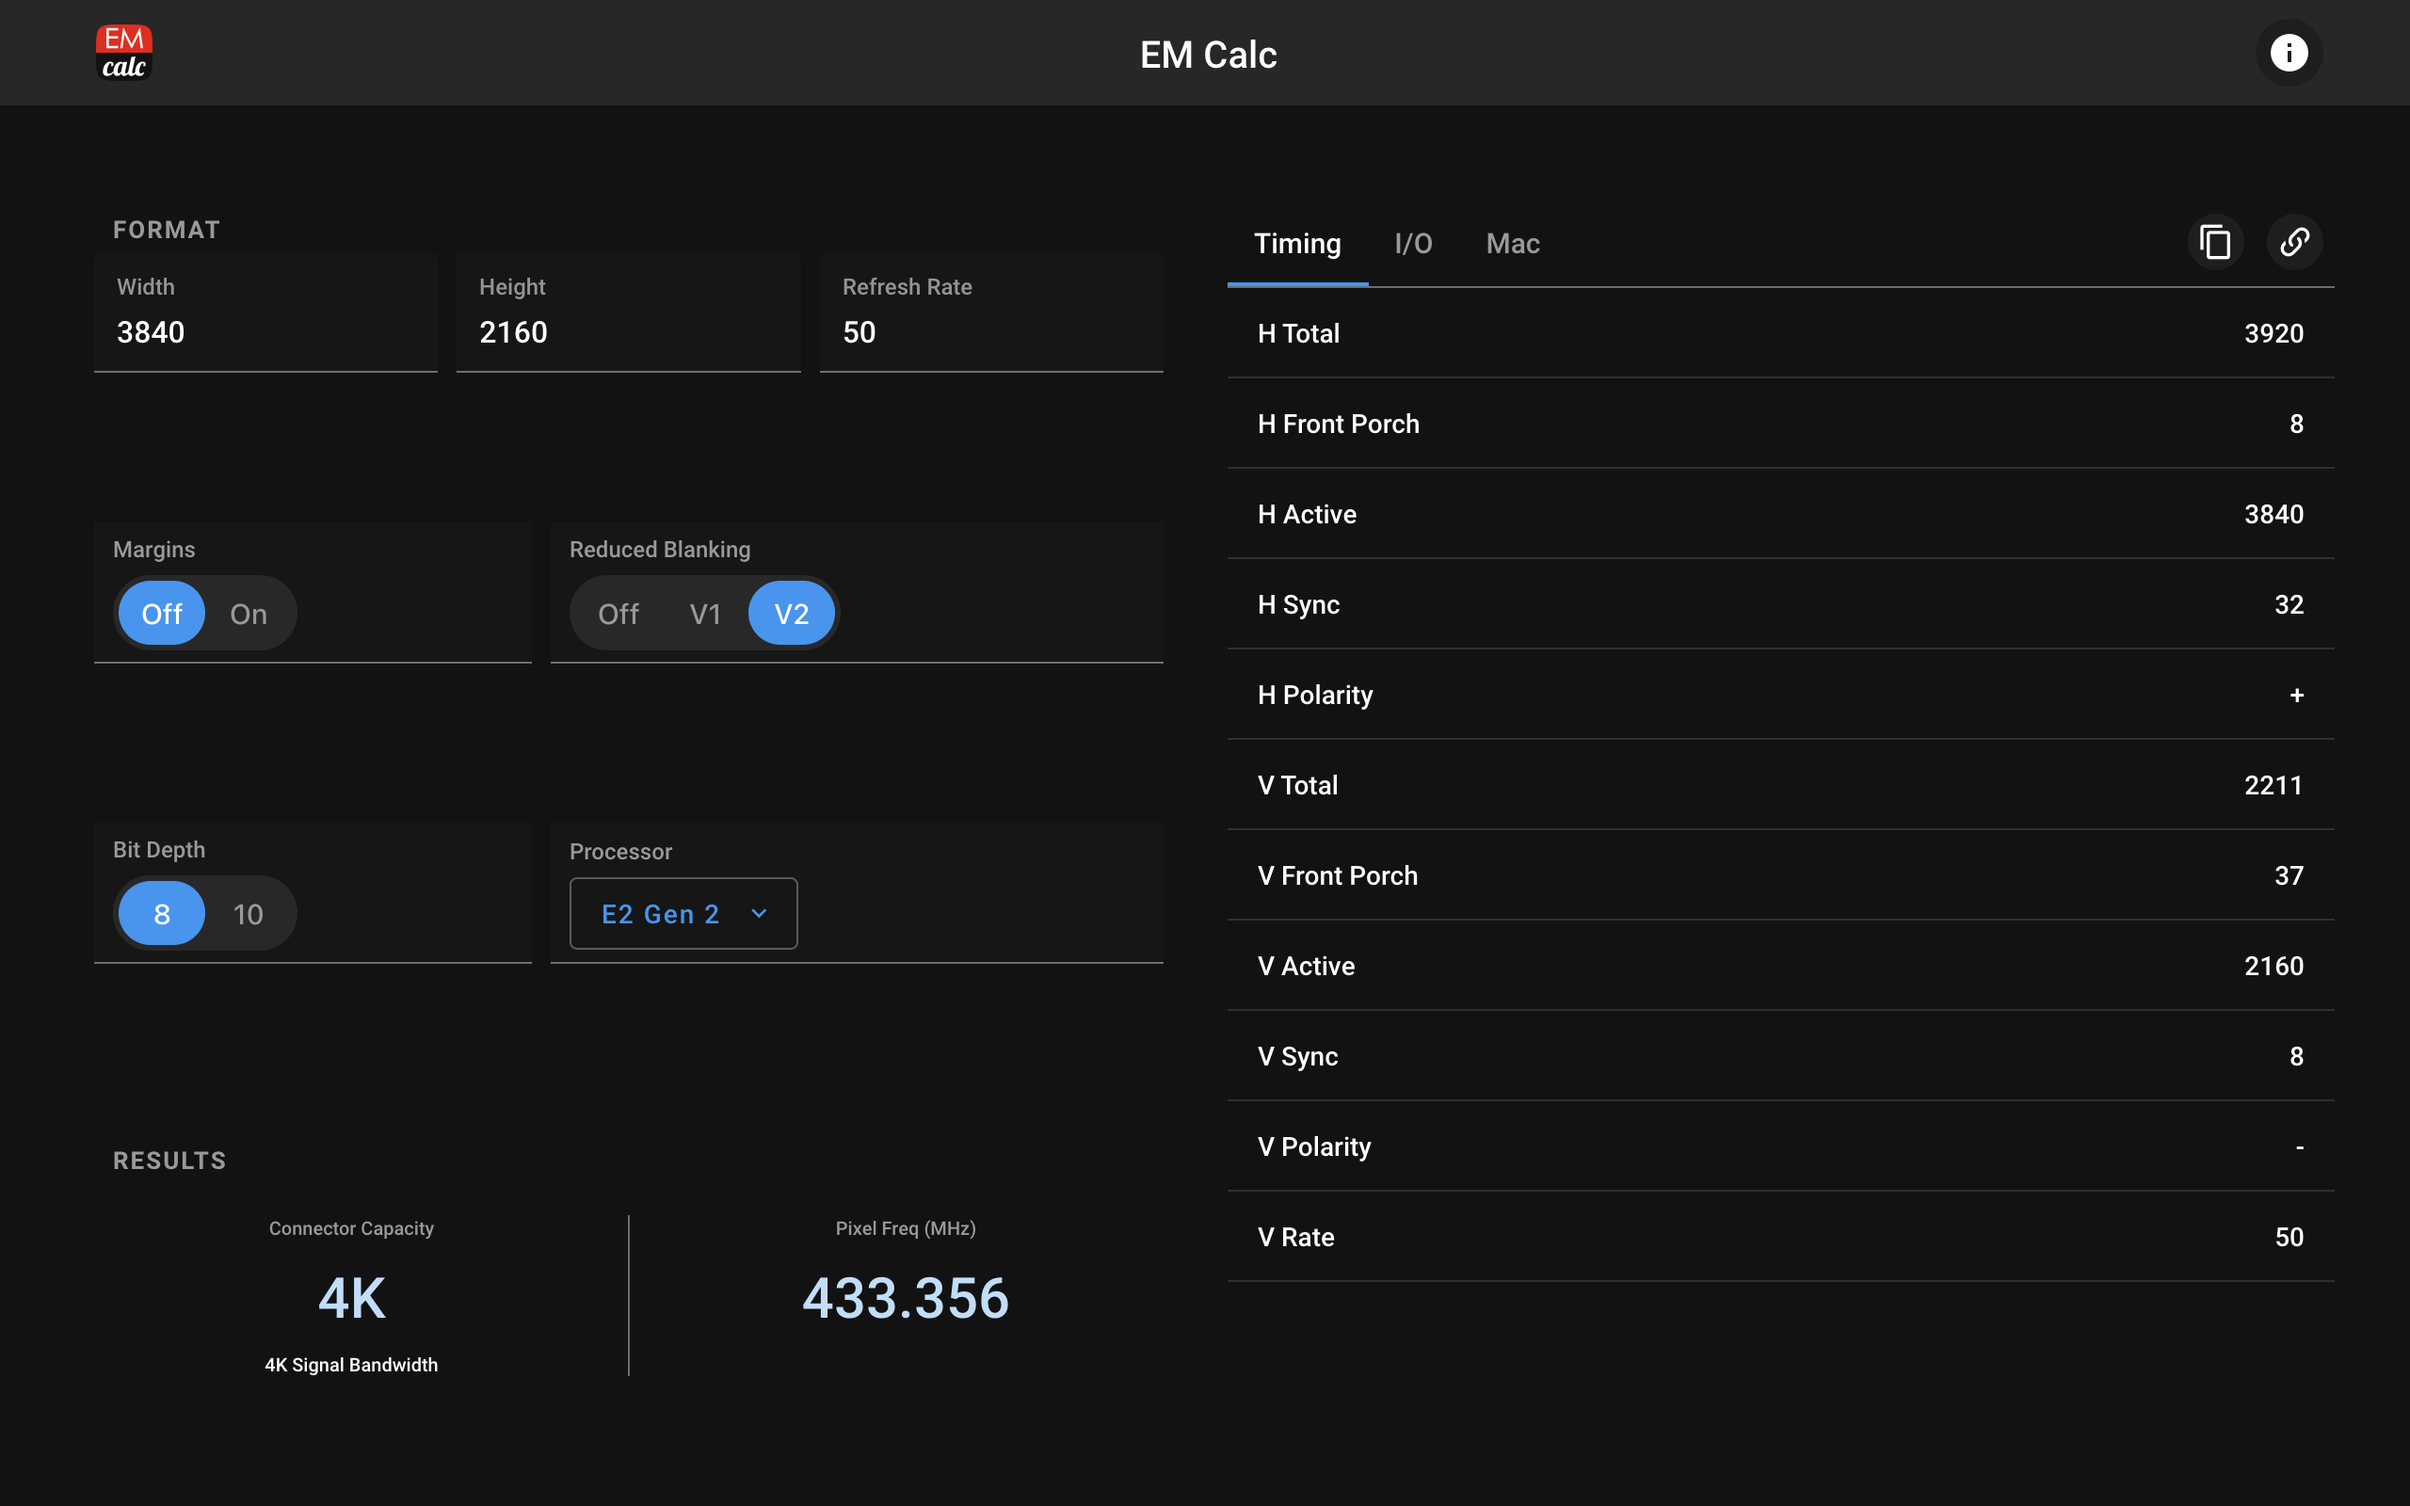
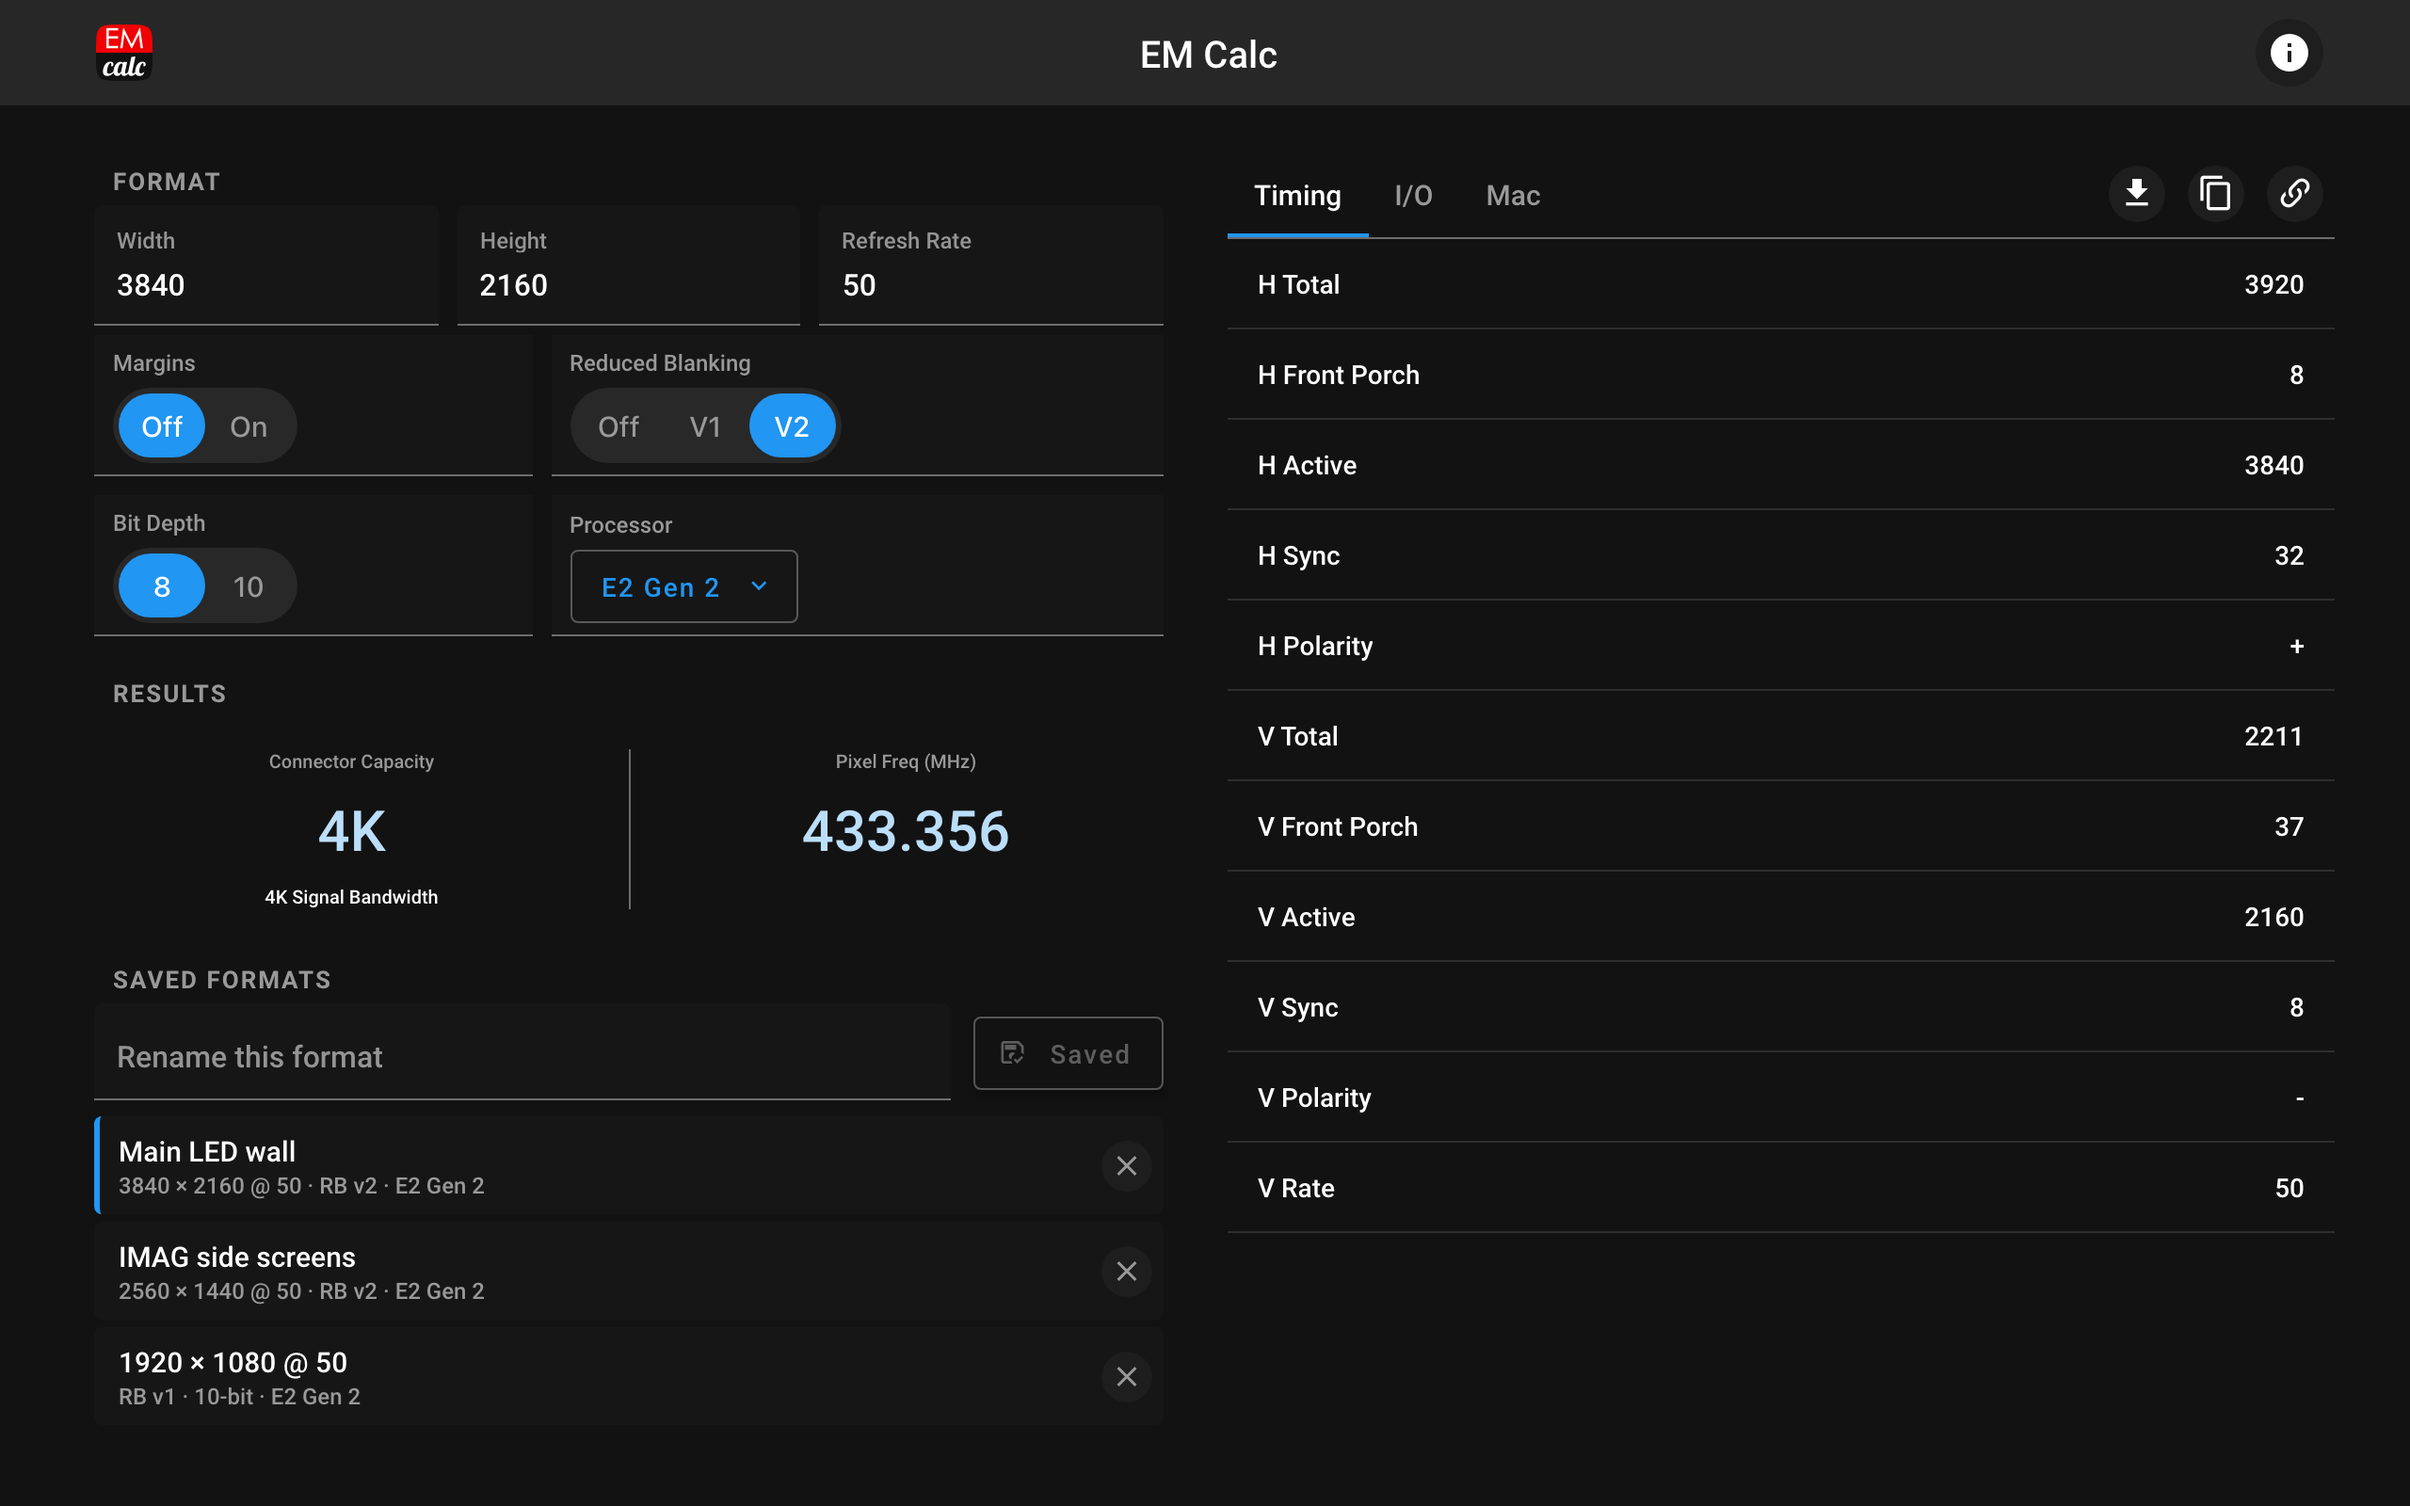
README: screenshots with saved formats and the EDID download

diff --git a/README.md b/README.md
@@ -7,7 +7,7 @@
 
 <br clear="left">
 
-![EM Calc on a desktop, with the format settings beside the EDID timing](README/Desktop.png)
+![EM Calc on a desktop, with the format settings and saved formats beside the EDID timing](README/Desktop.png)
 
 ![EM Calc on a phone, showing the format settings and results](README/Phone-1.png) | ![EM Calc on a phone, showing which inputs support the format, including SDI](README/Phone-2.png)
 :---:|:---:
